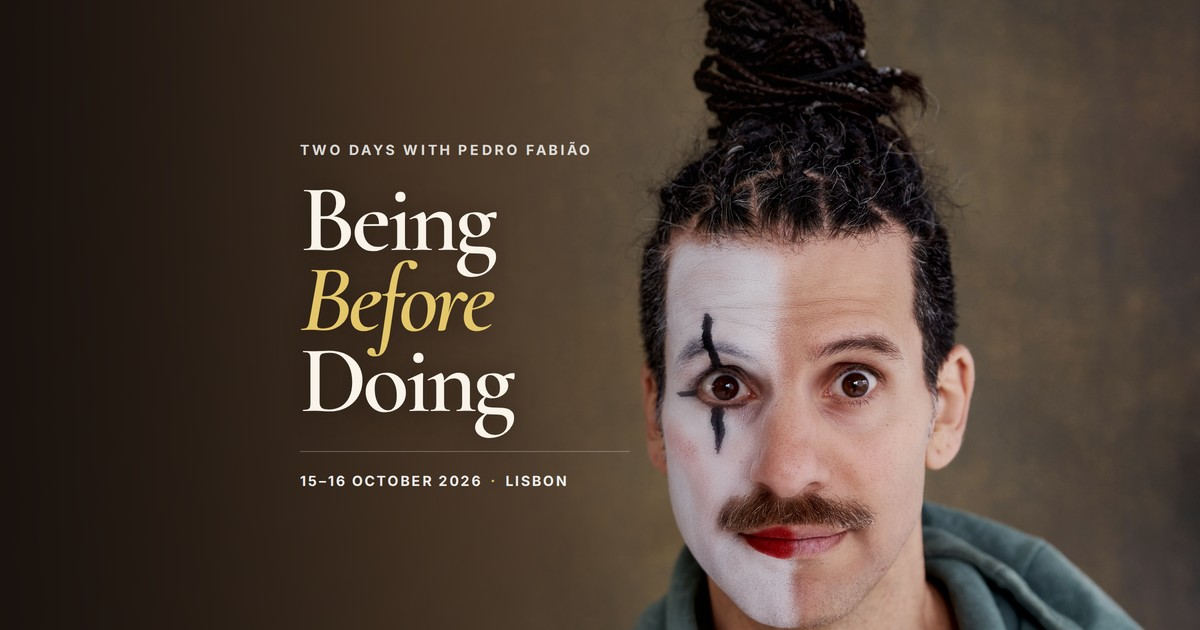
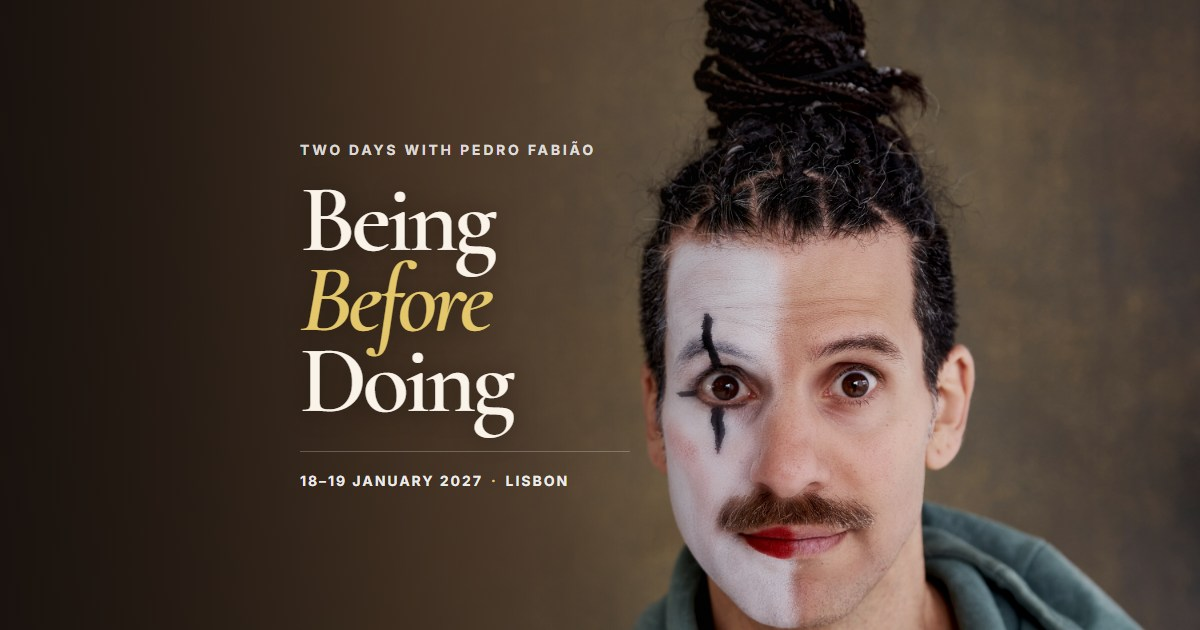
BBD: новые даты 18-19 января 2027

diff --git a/bbd/index.html b/bbd/index.html
@@ -25,18 +25,18 @@
   <meta property="og:locale" content="en_GB">
   <meta property="og:title" content="Being Before Doing | A clown workshop with Pedro Fabião">
   <meta property="og:description" content="A two-day workshop on presence, authenticity and human connection through the art of clowning. Personal work fuelled by play, humour and aliveness.">
-  <meta property="og:image" content="https://lisbonplayground.com/bbd/og-image.jpg?v=2">
-  <meta property="og:image:secure_url" content="https://lisbonplayground.com/bbd/og-image.jpg?v=2">
+  <meta property="og:image" content="https://lisbonplayground.com/bbd/og-image.jpg?v=3">
+  <meta property="og:image:secure_url" content="https://lisbonplayground.com/bbd/og-image.jpg?v=3">
   <meta property="og:image:type" content="image/jpeg">
   <meta property="og:image:width" content="1200">
   <meta property="og:image:height" content="630">
-  <meta property="og:image:alt" content="Being Before Doing — a two-day clown workshop with Pedro Fabião, 15–16 October 2026 in Lisbon. Pedro is pictured with half his face in white clown make-up, looking straight at the camera.">
+  <meta property="og:image:alt" content="Being Before Doing — a two-day clown workshop with Pedro Fabião, 18–19 January 2027 in Lisbon. Pedro is pictured with half his face in white clown make-up, looking straight at the camera.">
 
   <meta name="twitter:card" content="summary_large_image">
   <meta name="twitter:title" content="Being Before Doing | A clown workshop with Pedro Fabião">
   <meta name="twitter:description" content="A two-day workshop on presence, authenticity and human connection through the art of clowning. Personal work fuelled by play, humour and aliveness.">
-  <meta name="twitter:image" content="https://lisbonplayground.com/bbd/og-image.jpg?v=2">
-  <meta name="twitter:image:alt" content="Being Before Doing — a two-day clown workshop with Pedro Fabião, 15–16 October 2026 in Lisbon. Pedro is pictured with half his face in white clown make-up, looking straight at the camera.">
+  <meta name="twitter:image" content="https://lisbonplayground.com/bbd/og-image.jpg?v=3">
+  <meta name="twitter:image:alt" content="Being Before Doing — a two-day clown workshop with Pedro Fabião, 18–19 January 2027 in Lisbon. Pedro is pictured with half his face in white clown make-up, looking straight at the camera.">
   <link rel="preconnect" href="https://fonts.googleapis.com">
   <link rel="preconnect" href="https://fonts.gstatic.com" crossorigin>
   <link href="https://fonts.googleapis.com/css2?family=Cormorant+Garamond:wght@400;500;600;700&family=Inter:wght@400;500;600;700;800;900&display=swap" rel="stylesheet">
@@ -944,41 +944,6 @@
       letter-spacing: -0.018em;
       font-variant-numeric: tabular-nums;
       color: var(--ink);
-    }
-
-    .practical__dates {
-      display: grid;
-      gap: 18px;
-    }
-
-    .practical__dates .practical__date {
-      margin-top: 14px;
-    }
-
-    .practical__status-row {
-      display: flex;
-      justify-content: center;
-      flex-wrap: nowrap;
-      gap: 0 4px;
-      margin-top: 8px;
-      white-space: nowrap;
-    }
-
-    .practical__status,
-    .practical__current-price {
-      display: inline;
-      margin-top: 0;
-      font-family: 'DM Sans', sans-serif;
-      font-size: 12px;
-      font-weight: 600;
-      line-height: 1.3;
-      letter-spacing: 0.04em;
-      color: var(--gold);
-      text-decoration: none;
-    }
-
-    .practical__current-price {
-      margin-left: 0;
     }
 
     .practical__facts {
@@ -3155,7 +3120,6 @@
                 <div class="meta-item meta-item--dates">
                   <span>Workshop dates</span>
                   <strong>
-                    <span class="meta-date">15-16 October 2026 <em>sold out, waitlist open</em></span>
                     <span class="meta-date">18-19 January 2027 <em>registration open</em></span>
                   </strong>
                 </div>
@@ -3866,18 +3830,7 @@
           <div class="practical-card">
             <p class="practical__eyebrow">Practical</p>
 
-            <div class="practical__dates">
-              <div class="practical__date practical__date--sold-out">
-                <time datetime="2026-10-15">15-16 October 2026</time>
-                <div class="practical__status-row">
-                  <span class="practical__status">sold out, waitlist open.</span>
-                  <span class="practical__current-price">current price - €220</span>
-                </div>
-              </div>
-              <p class="practical__date">
-                <time datetime="2027-01-18">18-19 January 2027</time>
-              </p>
-            </div>
+            <p class="practical__date"><time datetime="2027-01-18">18-19 January 2027</time></p>
 
             <div class="practical__facts">
               <div class="practical__fact">
@@ -3894,11 +3847,11 @@
             <div class="practical__prices">
               <p class="price">
                 <span class="price__fig">€190</span>
-                <span class="price__when">until 18 January</span>
+                <span class="price__when">Early Bird until 18 December</span>
               </p>
               <p class="price price--later">
                 <span class="price__fig">€220</span>
-                <span class="price__when">from 19 January</span>
+                <span class="price__when">Regular Price from 19 December</span>
               </p>
             </div>
 
@@ -3948,7 +3901,7 @@
                 </details>
                 <details class="faq-item">
                   <summary id="faq-q8" aria-expanded="false" aria-controls="faq-a8">What if I need to cancel?</summary>
-                  <p class="faq-answer" id="faq-a8">Until 15 September: full refund, or transfer to a future workshop.<br>From 16 September: 50% refund if your place is filled. If it stays empty, the fee is non-refundable.</p>
+                  <p class="faq-answer" id="faq-a8">Until 18 December: full refund, or transfer to a future workshop.<br>From 19 December: 50% refund if your place is filled. If it stays empty, the fee is non-refundable.</p>
                 </details>
               </div>
             </div>
@@ -3956,7 +3909,7 @@
         </section>
 
         <footer class="closing">
-          <p class="closing__line">See you in October! Come and fail a bit - you'll enjoy it.</p>
+          <p class="closing__line">See you in January! Come and fail a bit - you'll enjoy it.</p>
           <p class="closing__ask">Still have questions? <a class="closing__link" href="https://wa.me/351937990470" data-wa="ask" data-cta-rival>Chat with us on WhatsApp</a>.</p>
 
           <div class="contacts">
@@ -4382,5 +4335,3 @@
   </script>
 </body>
 </html>
-
-
